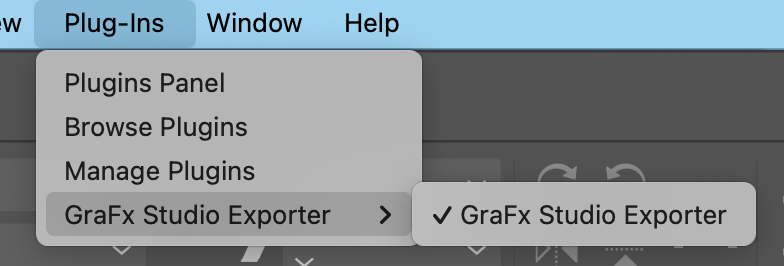
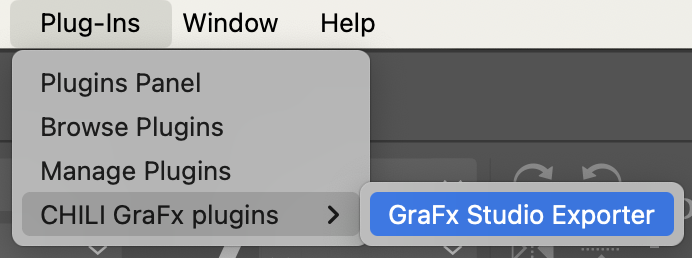
latest input

diff --git a/docs/GraFx-Studio/convert/Adobe-InDesign/index.md b/docs/GraFx-Studio/convert/Adobe-InDesign/index.md
@@ -7,32 +7,28 @@
 
 ## Introduction
 
-The InDesign Conversion Plugin allows you to export documents from Adobe® InDesign® and import them into **GraFx Studio**. This process lets you automate the creation of design variants by leveraging GraFx Studio’s powerful smart template features. While InDesign remains a great starting point for creative design, GraFx Studio excels at automation and multi-channel output.
+The InDesign Conversion Plugin allows you to export documents from Adobe® InDesign® and import them into **GraFx Studio**. This process lets you automate the creation of design variants by leveraging GraFx Studio’s powerful smart template features. While InDesign® remains a great starting point for creative design, GraFx Studio excels at automation and multi-channel output.
 
 ## Elements of the conversion
 
 - GraFx Studio Exporter (Adobe® InDesign® plugin)
 - Importer in GraFx Studio
 
-## Where to Find the **GraFx Studio Exporter** Plugin
-
-You can download the plugin from the **CHILI GraFx**
-
 ## How to Install the Plugin
 
 ### Download the Plugin
 
-Go to CHILI GraFx, download
+Click to download [the plugin](https://studio-cdn.chiligrafx.com/plugins/AdobeInDesign/0.1.0/GraFxStudioExporter_InDesign_0.1.0.ccx)
 
 ### Install the Plugin
 
-   - Locate the "chili.desktop.tools.id_ID_x.ccx" (x = version number)
+   - Locate the "GraFxStudioExporter_InDesign_x.y.z.ccx" (x.y.z being the version)  
    - Double click the ccx file
-   - Follow the steps to install the plugin in Adobe InDesign
+   - Follow the steps to install the plugin in Adobe® InDesign®
 
 ## How to Convert a Document
 
-### Prepare Your InDesign Document
+### Prepare Your InDesign® Document
 
    - Open the Adobe® InDesign® document you want to export.
    - Ensure all assets are properly linked.
@@ -48,7 +44,7 @@ All assets are linked correctly
 
 ### Export to GraFx Studio
 
-   - Go to **Plugins > GraFx Studio Exporter > GraFx Studio Exporter**
+   - Go to **Plugins > CHILI GraFx plugins > GraFx Studio Exporter**
 
 ![screenshot](convert01.png)
 
@@ -63,13 +59,25 @@ You can choose to ignore, or to export the object to a PDF asset, and place it a
 
 ![screenshot-full](convert19.png)
 
-   - Choose a destination folder and click **Export**.
+   - Choose a destination folder and click **Export**.  
+   Required only once, can be changed at any moment
+   - Choose the Page to be exported  
+   Only one page can be exported at a time. Soon you will be able to export all pages at once.
 
-![screenshot](convert05.png)
+![screenshot](convert20.png)
 
    - The plugin creates a `.zip` file containing the document and all necessary assets.
    
 ![screenshot-full](convert07.png)
+
+!!! info "What's in the zip file?"
+    ![screenshot](convert21.png)
+    
+    - A log file with info about the Plugin version, the Adobe App version, current Date and Plugin Warnings or Errors caught during the Document Preflight or Export
+    - The log file is named: GraFx_Studio_Exporter.log
+    - The zip file name format: <selected_page>_<document_name>(<optional_duplicate_copy_version>).zip
+    
+   
 
 ### Import into GraFx Studio
 
@@ -88,7 +96,7 @@ You can choose to ignore, or to export the object to a PDF asset, and place it a
 
 ![screenshot](convert10.png)
 
-   - Your InDesign document is now ready for automation in GraFx Studio.
+   - Your InDesign® document is now ready for automation in GraFx Studio.
 
 ![screenshot](convert11.png)
 
@@ -133,17 +141,18 @@ If a feature isn’t mentioned, it’s not supported — for now! Stay tuned, as
 |                        | Appearance color scheme                  | ✅             |                                                    |
 | **Document**           | Page size                                | ✅             |                                                    |
 |                        | Choose the page to import                                | ✅            | 
-|                        | All pages                                | ❌           |                                      |
+|                        | All pages                                | ✴           | Coming soon!                                     |
 |                        | Layouts                                  | ❌           |                                      |
 | **Frames**             | Rotation                                 | ✅             |                                                    |
 |                        | Blend modes                              | ❌           |                                      |
+|                        | Mirror / Shear                           | ❌           |                                      |
 | **Text Frames**        | Font (specified but not exported)        | ✅             |                                                    |
 |                        | Font size                                | ✅             |                                                    |
 |                        | Tracking (letter spacing)                | ✅             |                                                    |
 |                        | Baseline shift                           | ✅             |                                                    |
 |                        | Underline                                | ✅             |                                                    |
 |                        | Strikethrough                            | ✅             |                                                    |
-|                        | Superscript                              | ❌ |                                    |
+|                        | Superscript                              | ✅ |                                    |
 |                        | Subscript                                | ✅             |                                                    |
 |                        | All caps                                 | ✅             |                                                    |
 | **Alignment**          | Left                                     | ✅             |                                                    |
@@ -172,25 +181,35 @@ If a feature isn’t mentioned, it’s not supported — for now! Stay tuned, as
 |                        | Center problem object (click on warning) | ✅             |                                                    |
 |                        | No document open behavior                | ✅             | Preflight does nothing if no document is open     |
 |                        | Switching documents                      | ✅             | Preflight results reset when switching documents  |
-| **Layers**             | Layer names                              | ✅             | InDesign layer names converted to default names   |
+| **Layers**             | Layer names                              | ✅             | InDesign® layer names converted to default names   |
 |                        | Hidden layers                            | ❌           | Hidden layers are not exported                    |
 
 ### Legend (not John)
 
 - ✅ **Supported**: Fully supported
-- ⚠ **Limited Support**: Partially supported; some functionality may be restricted
+- ✴ **Not yet**: Planned to be released soon
 - ❌ **Unsupported**: The team is working hard to add this functionality
 
 ## Tips for Successful Conversion
 
-1. **Simplify Your Design**:
-   - Ensure your design uses basic text, shapes, and images for best results.
+### Simplify Your Design
 
-2. **Check for Unsupported Features**:
-   - Use the **Preflight** option in InDesign to identify unsupported features before exporting.
+Ensure your design uses basic text, shapes, and images for best results.
 
-3. **Use Linked Assets**:
-   - Make sure all images and fonts are properly linked and included in the export.
+### Check for Unsupported Features
 
-4. **Plan for Automation**:
-   - After importing to GraFx Studio, leverage smart template features to add business logic and automate variant creation.
+Use the **Preflight** option in InDesign® to identify unsupported features before exporting.
+
+### Use Linked Assets
+
+Make sure all images are properly linked and included in the export.
+
+### Have fonts installed on your environment
+
+Font Files are not included in the .zip and are not exported.
+You should have all Fonts installed to the platform.
+Fonts will be applied to the template upon Importing, and the match will be made by name of the font.
+Otherwise the default font is used.
+
+### Plan for Automation
+After importing to GraFx Studio, leverage smart template features to add business logic and automate variant creation.
